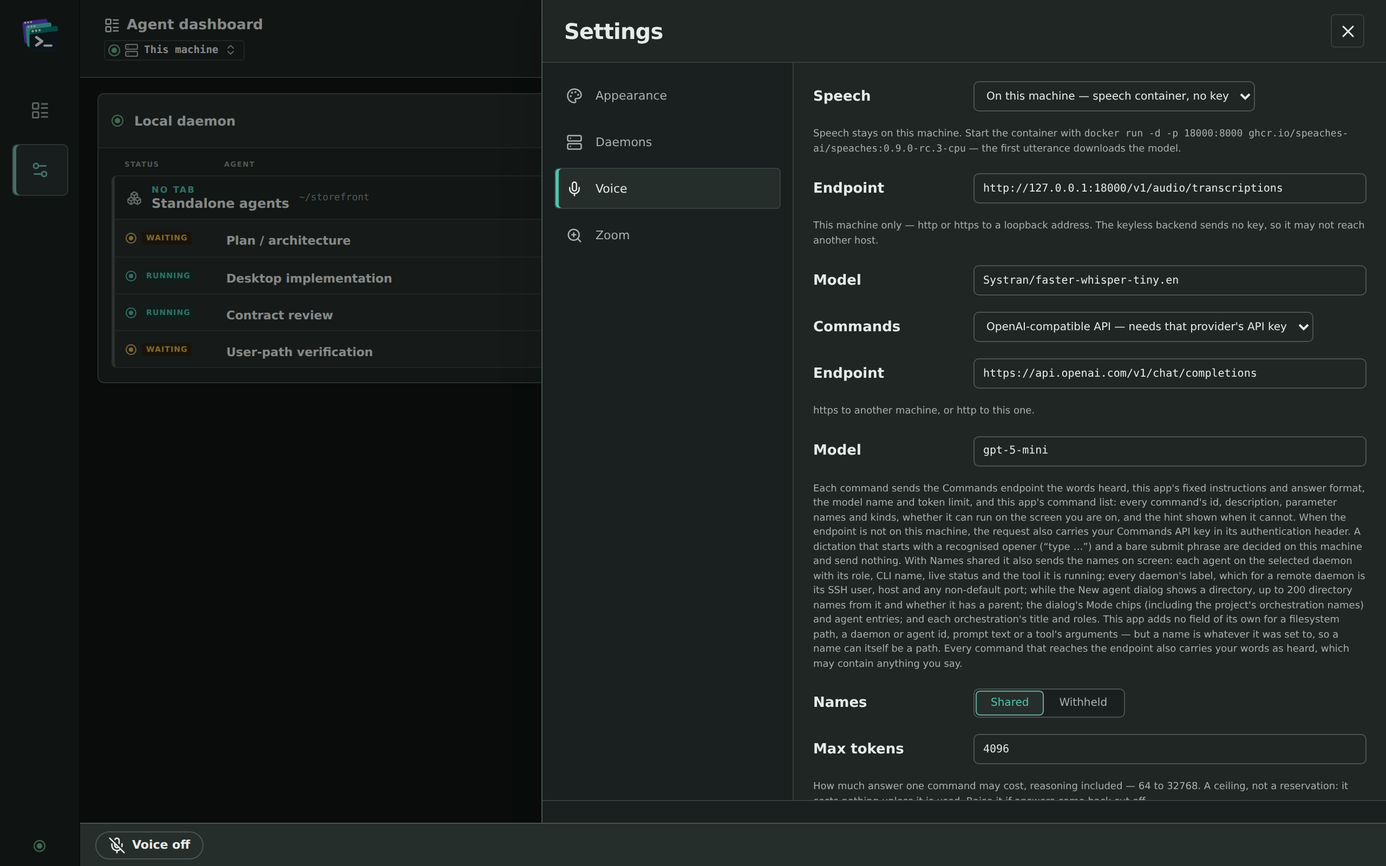
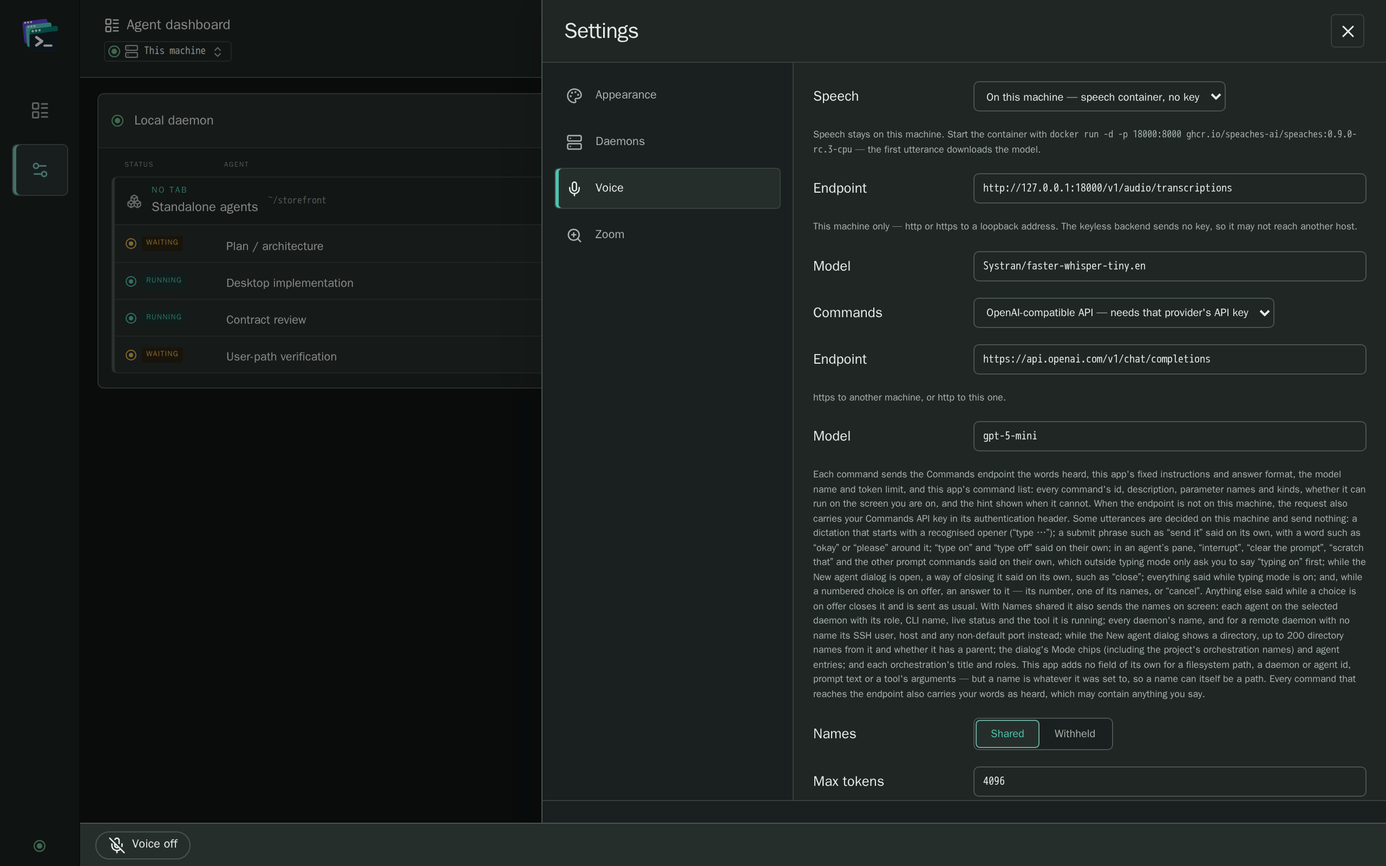
docs(voice): interrupt, clear and scratch that — user docs, key design, release note (#1541)
PRD #1541 M6.

- docs/desktop/voice.md: the agent-screen commands in the command table; a
  typing-mode section for interrupt / clear the prompt / scratch that with
  their phrases, typing-mode-only behaviour, clear's Undo, scratch's limits
  and per-agent coverage (Devin unsupported, rule 20); "What is sent where"
  and the troubleshooting table; the misheard "type off" workaround now uses
  "scratch that"; the typing-mode send and voice-off phrase lists are now
  complete.
- docs/develop/voice-first-design.md: the fourth reserved class, the new
  lists in the reserved-set table and classification order, and a section on
  the deck-served per-agent prompt keys: the verified table, the measured
  hazards and their guards, and how to re-verify after an agent upgrade.
- Live measurement (2026-10-04, attach-stream path): one write of 400 or 800
  DEL is exact in Claude Code 2.1.289, Codex 0.160.0 and OpenCode 1.18.34.
  Paste collapse applies to what the agent READS: an 8-char write followed
  at once by an 800-char write collapsed in Claude and the DELs then
  over-deleted. prompt/voice-keys/003 now also scratches a 500-character
  dictation in one write.
- changelog.d/1541.feature.md; published.toml description.
- settings-voice-desktop.png regenerated (cargo docs-screenshots): the
  disclosure text it showed was stale.

diff --git a/tests/e2e_prompt_keys_live.rs b/tests/e2e_prompt_keys_live.rs
@@ -391,7 +391,8 @@ fn prompt_voice_keys_002_clear_empties_a_live_claude_prompt() {
 /// and a dictated tail into its prompt through an attach stream, then write the
 /// delete key the daemon serves once per tail character in one write. Exactly
 /// the tail must go: a word typed straight after reads contiguously after the
-/// kept word and its space, and the agent is still running.
+/// kept word and its space. Then a 500-character dictation is removed the same
+/// way, in one write of 500 deletes, and the agent is still running.
 #[spec("prompt/voice-keys/003")]
 #[test]
 fn prompt_voice_keys_003_delete_char_removes_exactly_the_last_characters() {
@@ -416,7 +417,42 @@ fn prompt_voice_keys_003_delete_char_removes_exactly_the_last_characters() {
         "exactly the tail removed — no more and no less",
         &format!("{KEPT}{NEXT}"),
     );
+
+    // A long dictation, as long as voice ever scratches without nearing the
+    // 800-character paste collapse, removed by one write of deletes. Written
+    // only once the prompt before it is on screen: two writes read together
+    // are one paste to Claude, and 808 characters would collapse.
+    let long = long_dictation(LONG_SCRATCH_CHARS);
+    writer.write(&long);
+    claude.deck.wait_until_grid_then_hold(
+        "the long dictation settled in Claude's input box",
+        BEFORE_SUBMIT,
+        |grid| grid.contains(LONG_MARKER) && !grid.contains("[Pasted"),
+    );
+    writer.write(&claude.keys.delete_char.bytes.repeat(long.chars().count()));
+    writer.write(FINAL);
+    claude.wait_for_input_text(
+        "exactly the long dictation removed — no more and no less",
+        &format!("{KEPT}{NEXT}{FINAL}"),
+    );
     claude.assert_still_running("the deletes");
+}
+
+/// How long `prompt/voice-keys/003`'s long scratch is, in characters.
+const LONG_SCRATCH_CHARS: usize = 500;
+/// The start of the long dictation, which shows it reached the input box.
+const LONG_MARKER: &str = "voicekeys_longtail_5e2b";
+/// What is written after the long dictation is deleted.
+const FINAL: &str = "voicekeys_final_7c19";
+
+/// A dictated write of exactly `chars` characters, as voice writes one: words
+/// and a trailing space, opening with [`LONG_MARKER`].
+fn long_dictation(chars: usize) -> String {
+    let mut text = format!(" {LONG_MARKER} ");
+    while text.chars().count() < chars {
+        text.push_str("and some more dictated words ");
+    }
+    text.chars().take(chars - 1).chain([' ']).collect()
 }
 
 /// How one non-Claude agent is started in the harness, and how it is driven.

diff --git a/docs/develop/voice-first-design.md b/docs/develop/voice-first-design.md
@@ -174,18 +174,22 @@ The words that stay live in the mode are lists in `voice/dictation.rs`, matched 
 | `VOICE_OFF_PHRASES` | `voice_off` | in the mode only — in `Idle` the model answers `voice_off` from its description |
 | `SUBMIT_PHRASES`, plus `submit_prompt`'s `heard_as_whole` entries | `submit_prompt` | in the mode; `SUBMIT_PHRASES` in `Idle` too |
 | `TRAILING_SEND_PHRASES` (`send`, `send it`, `submit`, `press enter`) | `dictate_to_agent`, then a send | in the mode only, as a separate last sentence of a longer utterance (PR #1451 round 3); a subset of `SUBMIT_PHRASES`, so it is outside rule 14's disjointness set |
+| `INTERRUPT_PHRASES` | `interrupt_agent` | in the mode (PRD #1541); in `Idle` on the agent screen only, where `local_intercept` answers it with `TYPING_MODE_FIRST_HINT` and runs nothing |
+| `TYPING_STOP_PHRASES` (`stop`, `stop it`, `stop that`) | `interrupt_agent` | in the mode only; in `Idle` it is not intercepted at all and the model answers it as before (issue #1402 owns what a bare "stop" in a pane should become), which is why it is a list of its own and is not in `interrupt_agent`'s `heard_as_whole` |
+| `CLEAR_PROMPT_PHRASES` | `clear_prompt` | as `INTERRUPT_PHRASES` |
+| `SCRATCH_PHRASES` | `scratch_that` | as `INTERRUPT_PHRASES` |
 
-The browser preview's fixture (`resolveFixtureVoice` in `desktop/src/data/fixture.ts`) carries copies of these lists on its `voice_off`, `dictation_on`, `dictation_off` and `submit_prompt` rows, matched by the same whole-utterance rule with the same politeness words. `desktop/src/data/fixture.test.ts` reads the Rust lists out of `dictation.rs`, `outcome.rs` and `commands.toml` and fails on a phrase missing from either side, so a list edit in Rust has to be made in the fixture too.
+The browser preview's fixture (`resolveFixtureVoice` in `desktop/src/data/fixture.ts`) carries copies of these lists on its `voice_off`, `dictation_on`, `dictation_off`, `submit_prompt`, `interrupt_agent`, `clear_prompt` and `scratch_that` rows, matched by the same whole-utterance rule with the same politeness words. `desktop/src/data/fixture.test.ts` reads the Rust lists out of `dictation.rs`, `outcome.rs` and `commands.toml` and fails on a phrase missing from either side, so a list edit in Rust has to be made in the fixture too.
 
-**Each phrase in the set is a phrase the user cannot dictate alone**, and that is the cost the whole design is priced in. Said inside a longer utterance it is typed; said on its own it acts. The four `TRAILING_SEND_PHRASES` cost a little more in the mode: they also cannot be dictated as the separate last sentence of an utterance, which sends instead ("Fix the tests. Send it."); said inside that sentence ("Fix the tests and send it.") they are typed. Three classes today — stop typing, stop listening, send — and adding a fourth is a decision recorded in the PRD that adds it, not a list edit. Linkage-check rule 14 holds two properties over the lists: every phrase in each list appears in its row's `description` (so a phrase the fast path answers is one the model was told about, and the phrase fixtures pin the model's `Idle` answer for the voice-off phrases the model owns there), and the lists — the first four above and `DICTATION_OPENERS` — are pairwise disjoint, so the order they are checked in is never load-bearing.
+**Each phrase in the set is a phrase the user cannot dictate alone**, and that is the cost the whole design is priced in. Said inside a longer utterance it is typed; said on its own it acts. The four `TRAILING_SEND_PHRASES` cost a little more in the mode: they also cannot be dictated as the separate last sentence of an utterance, which sends instead ("Fix the tests. Send it."); said inside that sentence ("Fix the tests and send it.") they are typed. Four classes today — stop typing, stop listening, send, and the prompt commands (interrupt, clear the prompt, scratch that) — and adding a fifth is a decision recorded in the PRD that adds it, not a list edit. The fourth was recorded that way: PRD #1541's M1 decisions 2 to 4 (`prds/1541-voice-agent-prompt-control.md`) decide that typing mode decides what a word means, that the three commands live only in the mode, and the phrases; their cost is the usual one, that none of them can be dictated alone, plus a bare "stop" (which interrupts in the mode). Linkage-check rule 14 holds two properties over the lists: every phrase in each list appears in its row's `description` (so a phrase the fast path answers is one the model was told about, and the phrase fixtures pin the model's `Idle` answer for the voice-off phrases the model owns there), and the lists — the eight `dictation.rs` lists named above other than `TRAILING_SEND_PHRASES` (not `submit_prompt`'s `heard_as_whole` entries), and `DICTATION_OPENERS` — are pairwise disjoint, so the order they are checked in is never load-bearing.
 
 ### Classification order
 
 Every step is a whole-utterance equality except the opener, which is whole *words at the front*, and the trailing send, which is a whole *last sentence*:
 
 1. **An empty transcript** is a no-match with no backend call, in every state.
-2. **With the mode declared**, `dictation_intercept` answers in full: `VOICE_OFF_PHRASES`, then `DICTATION_OFF_PHRASES`, then a submit, then a trailing send sentence (`TRAILING_SEND_PHRASES` as the separate last sentence: the rest is typed and then sent, PR #1451 round 3), then typed whole. The order is PRD #802's decided one — the bigger stop first — and with disjoint lists it decides nothing; it exists so that a future overlap cannot leave a live microphone after a user asked for it to stop.
-3. **Without it**, `local_intercept`: the on and off phrases, then — over the New agent dialog only — `close`'s whole-utterance list for it, then `SUBMIT_PHRASES` (less an edge politeness word, as `heard_as_whole` compares), then a `DICTATION_OPENERS` opener; everything else goes to the model.
+2. **With the mode declared**, `dictation_intercept` answers in full: `VOICE_OFF_PHRASES`, then `DICTATION_OFF_PHRASES`, then a submit, then the prompt commands (`typing_mode_row`: interrupt with the bare "stop" forms, clear, scratch — PRD #1541), then a trailing send sentence (`TRAILING_SEND_PHRASES` as the separate last sentence: the rest is typed and then sent, PR #1451 round 3), then typed whole. The order is PRD #802's decided one — the bigger stop first — and with disjoint lists it decides nothing; it exists so that a future overlap cannot leave a live microphone after a user asked for it to stop.
+3. **Without it**, `local_intercept`: the on and off phrases, then — on the agent screen only — the interrupt, clear and scratch lists (never `TYPING_STOP_PHRASES`), answered with `TYPING_MODE_FIRST_HINT` and no dispatch, then — over the New agent dialog only — `close`'s whole-utterance list for it, then `SUBMIT_PHRASES` (less an edge politeness word, as `heard_as_whole` compares), then a `DICTATION_OPENERS` opener; everything else goes to the model.
 
 ### The state model
 
@@ -265,6 +269,37 @@ The third whole-utterance class answered without the model: **a number said agai
 **Voice acts only on the page showing**, at three layers. Rust: `VoiceDirectories.paging` and `VoiceNewAgentForm.mode_paging` (`VoicePaging { page, elsewhere: [{ name, page }] }`, bounded with the listing in `lib.rs`) — `resolve_param` resolves a `dir_ref` / `mode_ref` against every page under `off_page_key`s and `resolve_paged` refuses a match only off the page with `Unmet::OffPage` ("“docs” is on page 3: say “next page”"), so a name on the page showing still wins, and "docs site" is told its page rather than loosely becoming a visible `docs`. Webview dispatch: `DeckShell.dispatchVoice` refuses any resolved param that names an item in the active pager's `elsewhere` (`offPageTarget`) — the case Rust cannot see, an agent on another dashboard page, resolved against the whole deck. Webview fallback: an utterance nothing answered (`no_match` and the other holdable kinds, or `param_unresolved`) whose words cover an off-page item's name gets that page sentence at once instead of being held (`offPageNamed`). The dialog's own moves (`voiceOpenDirectory`, `voiceChooseMode`) refuse an off-page target too.
 
 **Numbers past nine.** A page can show more than nine numbers, so `voice::choice::ordinal` (and its TS twin in `voiceChoice.ts`) reads counts to ninety-nine in words ("twelve", "twenty three" — `whole_utterance` splits "twenty-three"), positions to "ninetieth" ("the twelfth", "the twenty-first one"; a trailing "one" is filler only after a position, so "twenty one" is 21), and digits as before. `said_as_count` and `count_said` carry the count-versus-position distinction the collision rule needs ("twelve" collides with `worker 12`; "the twelfth" does not). A name's number is read off its last two words when they are one number, so "worker twenty three" collides with "twenty three" and not with "three". `MAX_CHOICES` stays 9: a numbered choice still offers at most nine, and "twelve" against it is refused.
+
+### Prompt commands and the per-agent keys (PRD #1541)
+
+Typing mode's fourth class of reserved phrases acts on the open agent's prompt: `interrupt_agent`, `clear_prompt` and `scratch_that`, invoking `interruptAgent`, `clearAgentPrompt` and `scratchLastDictation` in `VoiceControlPanel.tsx`. They are reached only through the local intercept (the reserved set and classification order above). Each row is `heard_as_whole` over exactly the phrases `local_intercept` answers outside the mode, so the model never has words it could ground a pick of one on, and `handle_utterance_with_dictation` refuses a model dispatch of any of them with `TYPING_MODE_FIRST_HINT` as a second wall. The decisions behind them, including why each lives only in the mode, are PRD #1541's M1 decisions (`prds/1541-voice-agent-prompt-control.md`).
+
+**The keys are the deck's, not the app's (rule 18).** Which bytes interrupt, clear or delete depends on the agent version on the deck's host, not on this app's build, so a remote deck of another version has to answer for its own agents. `AgentSpec::prompt_keys` in `src/agent_registry.rs` holds them, and the daemon stamps them onto each `AgentRecord` as the additive optional field `prompt_keys` (`attach_prompt_keys`, run beside `attach_cli_names` at the wire boundary). That is the `cli_name` precedent of #856 and the protocol's own written policy for an additive optional field, so `PROTOCOL_VERSION` did not move; `ClearKey::pause_between_writes_ms` was added later on the same terms. The desktop crate copies them to `DesktopAgent.prompt_keys` through `map_prompt_keys` (`desktop/src-tauri/src/dto.rs`), which drops the whole set rather than pass on half of one when any part breaks this client's own promises: a key that does not start with a control byte, is longer than 16 bytes, or contains `0x03`, CR or LF; no interrupt step or more than it allows; a pause over 2 s; a per-write cap of zero; a clear rule it does not know. The webview carries them to `VoicePane.promptKeys`. Absent keys mean a refusal that names the agent ("Devin has no voice key to interrupt its turn."), which covers Devin, an agent type the deck does not know, and a deck too old to send the field.
+
+**The verified key table.** Measured 2026-10-03 in a private tmux server on cheap models; versions from `--version`.
+
+| | Claude Code 2.1.289 | Codex 0.160.0 | OpenCode 1.18.34 | Pi 0.87.1 | Devin 3000.11.3 |
+| --- | --- | --- | --- | --- | --- |
+| Interrupt | `ESC` once | `ESC` once | `ESC`, 300 ms, `ESC` (the first only arms "esc again") | `ESC` once | none (not measured: logged out on the measuring box) |
+| Clear | `Ctrl+U` (`0x15`) per wrapped screen row; at most 32 per write, writes 1 s apart | `Ctrl+U` per line | `Ctrl+U` per line | `Ctrl+U` per line | none |
+| Delete one character | `DEL` (`0x7f`) | `DEL` | `DEL` | `DEL` | none |
+| Unbracketed write collapsed into a paste placeholder | above 800 characters (`[Pasted text #N]`) | above 1000 (`[Pasted Content …]`) | never (2290 kept as text) | never (2290 kept as text) | unknown |
+
+The panel presses the clear key 64 times for `per_wrapped_row` and 16 for `per_line` (`VOICE_CLEAR_PRESSES`): extra presses on an empty prompt are harmless in all four measured agents, so it over-counts rather than measure the prompt. `prompt_keys_match_the_verified_table` in `src/agent_registry.rs` pins the table, and `desktop/src/data/prompt-keys.json`, the browser preview's copy, is pinned to the registry by a desktop-crate test.
+
+**What was measured to go wrong, and what guards each.**
+
+- **`Ctrl+C`, never.** On an empty prompt it quits Codex and OpenCode outright, and twice quits Claude Code. No served sequence contains `0x03`, which the registry's tests assert; `map_prompt_keys` drops any set that does; and the live tests assert it of the interrupt steps the daemon actually served.
+- **A repeated interrupt.** `ESC` on an agent that has already stopped opens Rewind in Claude Code (and clears its draft), the transcript browser in Codex, and the Session Tree in Pi on an empty prompt. So the panel sends an interrupt only while `turn` is `working` (`agentTurn` in `desktop/src/lib/promptKeys.ts`: the `thinking`, `working` and `compacting` statuses; `running`, which the desktop crate reports for an agent with no hook state, is not evidence of a turn), and refuses a second one to the same pane within `VOICE_INTERRUPT_REPEAT_MS` (3 s) of the last one sent. This guard is part of the key's contract, not an option, which is why the field's doc says so.
+- **Claude Code drops a large `Ctrl+U` read whole.** One read holding 64 or more NAKs is ignored entirely (10 to 63 worked), and separate writes are not separate reads: through the attach stream, two writes of 32 sent back to back were ignored exactly as one of 64, and so were two 250 ms apart on a box at load 174; two 1 s apart cleared the prompt. So the deck serves `max_presses_per_write: 32` and `pause_between_writes_ms: 1000` for Claude Code and the panel honours both, rather than each sender guessing the gap. Codex, OpenCode and Pi took 300 in one write.
+- **Paste collapse.** An unbracketed write longer than the agent's threshold becomes a placeholder that one `DEL` removes whole, so `DEL` × its length would go on to delete text in front of it. `DeleteCharKey::max_literal_write_chars` serves each agent's threshold, and the panel refuses to scratch a write longer than `min(800, that)` (`VOICE_SCRATCH_MAX_CHARS`). 800 is voice's floor for every agent, the lowest measured threshold.
+- **The threshold applies to what the agent reads, not to one write.** Measured 2026-10-04 through the attach stream against Claude Code 2.1.289: an 8-character write followed at once by an 800-character write was read as one 808-character paste and collapsed, and 800 `DEL`s then removed the placeholder and the 8 characters before it. The same two writes in another round, and every case with the long write on its own, were exact. Voice's dictated writes are normally a whole utterance apart, so this needs two writes to reach the agent together; the clear's Undo, which types the whole cleared prompt back as one write, can exceed 800 on its own.
+- **Large `DEL` writes are exact.** Measured 2026-10-04 through the attach stream, one write of 400 and one of 800 `DEL`s each removed exactly that many characters in Claude Code 2.1.289, Codex 0.160.0 and OpenCode 1.18.34 (a box at load 96 on 16 cores); Claude's large-read drop is specific to `Ctrl+U`. `prompt/voice-keys/003` pins a 500-character scratch in Claude Code.
+- **Enter in the same burst as text is a newline.** Claude Code reads an `Enter` that arrives with the text before it as part of a paste and inserts a newline instead of sending. A spoken send therefore waits until `VOICE_SUBMIT_SETTLE_MS` (750 ms) after the last tracked write landed. 750 ms is the settle the live tests use before every `Enter`, so it is known to submit; it is not a measured minimum.
+
+**What the panel keeps per prompt.** A `PromptRecord` per agent and incarnation (`spawnedAtMs`) holds voice's writes since the prompt was last sent, cleared or interrupted, which is what "scratch that" pops, and whether those writes are the whole prompt, which is the only case where a clear offers Undo. Keyboard input reaches the panel through `App.tsx`'s `KeyboardInput` context and empties the record (a plain `Enter` empties it as sent, so the prompt is again known to be whole). Every write to one pane goes through one line (`onPane`), so a dictated write never lands between a clear's writes, and an Undo waits for the clear's last write. Writes after the first in a command (the second interrupt `ESC`, the second clear write, an Undo) re-check the command's context first and stop rather than finish into a pane that has moved.
+
+**Re-verifying the keys after an agent upgrade.** An agent can change what a key does in any release, so the table is only as current as its versions. Run `cargo test-e2e-live prompt_voice_keys` (lane 2, a developer's machine only): `prompt/voice-keys/001`–`003` drive a real interactive Claude Code, `004` Codex and `005` OpenCode, each writing the keys the daemon served through the desktop's attach-stream path. With a ChatGPT-subscription login set `DOT_AGENT_DECK_CODEX_TEST_MODEL=gpt-5.6-luna` and `DOT_AGENT_DECK_OPENCODE_TEST_MODEL=openai/gpt-5.6-luna`, and `DOT_AGENT_DECK_REQUIRE_REAL_E2E=1` so a missing login fails instead of skipping. Pi is not covered by those tests (the catalog's `prompt/voice-keys` section says why), so measure it by hand in a private tmux server as the PRD's table was. When a key changes, update the agent's entry in `src/agent_registry.rs`, `prompt_keys_match_the_verified_table`, `desktop/src/data/prompt-keys.json` and the table above with the new version. Devin gets keys once someone measures it logged in, and `docs/desktop/voice.md` then drops it from the unsupported list (rule 20). The editing-key bytes the desktop sends from the keyboard were measured the same way and are in [`desktop-gui.md`'s "Keys in an agent's terminal"](desktop-gui.md#keys-in-an-agents-terminal).
 
 ## 9. Checklist for a new surface
 

diff --git a/docs/desktop/voice.md b/docs/desktop/voice.md
@@ -1,6 +1,6 @@
 # Voice Control
 
-The desktop app can be driven by voice: open screens and agents, switch daemons, fill in and submit the New agent dialog, stop agents (after you confirm on screen), and type or dictate into an agent. The TUI has no voice control.
+The desktop app can be driven by voice: open screens and agents, switch daemons, fill in and submit the New agent dialog, stop agents (after you confirm on screen), type or dictate into an agent, and interrupt the agent, clear its prompt or take back what you just dictated. The TUI has no voice control.
 
 Voice needs two services, set in **Settings → Voice**: **Speech** turns your audio into text, and **Commands** turns that text into one of the app's commands. Read [What is sent where](#what-is-sent-where) before turning it on. Voice understands English: what you say is always transcribed as English, whatever your accent.
 
@@ -36,7 +36,7 @@ What you can do by voice, by screen:
 | Anywhere, including an agent's pane | Close what is open over the screen (a pane, Settings, a dialog); list the commands; turn voice off |
 | Dashboard | Open Settings; switch which daemon the app shows; open an agent's pane; open New agent; stop an agent or close an orchestration (the app shows the same confirmation as the buttons, and nothing stops until you confirm by hand) |
 | New agent dialog | Choose the daemon; open a directory, go up, use the directory shown; [filter the directories](#filtering-directories) or clear the filter; choose a Mode chip or the agent to run; set the Name; [set the Command](#setting-the-command); start; discard |
-| An agent's pane | Type into the agent's prompt; submit it; turn [typing mode](#typing-mode) on and off |
+| An agent's pane | Type into the agent's prompt; submit it; turn [typing mode](#typing-mode) on and off; in typing mode, [interrupt the agent, clear its prompt, or scratch what you last dictated](#interrupt-clear-and-scratch-that) |
 
 While voice is on, the agents, daemons, directories and modes on screen are numbered, and saying a number chooses one; see [Choosing by number](#choosing-by-number). A list too long for the window is shown a page at a time, so everything you can choose is on screen; see [Long lists are shown in pages](#long-lists-are-shown-in-pages). When what you said matches more than one thing on screen, the app lists the matches for you to choose from; see [When a command matches several things](#when-a-command-matches-several-things).
 
@@ -121,10 +121,10 @@ While typing mode is on:
 ![An agent's pane with typing mode on: "Typing to Desktop implementation" on the pane's top edge, and at the bottom of the window the Voice on button, a Stop typing button and the reminder "Typing to Desktop implementation. Say “type off” to stop, “send it” to send."](/img/voice-typing-mode-desktop.png)
 
 - **Typing to** *agent* is shown at the top of the agent's pane and beside the Voice button, with a reminder of what to say to stop and to send, and a **Stop typing** button.
-- Nothing is sent to the agent until you say "send it" (or "send", "submit", "enter", "press enter", "go ahead", "finished", "end") on its own, or press `Enter` yourself. After a send, typing mode stays on, so you can dictate the next prompt the same way.
-- You can also end what you say with "send it", "send", "submit" or "press enter" as a separate last sentence, for example "What's the weather over there? Send it." Everything before it is typed and then sent; the last sentence itself is not typed. The other send phrases ("enter", "go ahead", "finished", "end") send only when said on their own, so "Fix the tests. Go ahead." is typed in full and not sent.
+- Nothing is sent to the agent until you say "send it" (or "send", "submit", "submit it", "enter", "press enter", "go ahead", "end", "that is the end", "finished", "the prompt is finished") on its own, or press `Enter` yourself. After a send, typing mode stays on, so you can dictate the next prompt the same way.
+- You can also end what you say with "send it", "send", "submit" or "press enter" as a separate last sentence, for example "What's the weather over there? Send it." Everything before it is typed and then sent; the last sentence itself is not typed. The other send phrases ("enter", "go ahead", "finished", "end" and the rest) send only when said on their own, so "Fix the tests. Go ahead." is typed in full and not sent.
 - If you stop talking for four seconds with words typed but not yet sent, “send it” to send is highlighted as a reminder. It never sends anything itself; the highlight goes away when you speak again, send, or stop typing.
-- Only a handful of things you can say still act as commands, and only when you say them on their own (or, for the four send phrases above, as a separate last sentence): "type off" (or "typing off", "stop typing", "dictation off", "stop dictation", "done typing"), the send phrases above, and "voice off" (or "mute", "mic off", "stop listening", "stop voice"). Said inside a longer sentence, such as "tell the reviewer to send it when the tests pass", they are typed like anything else. Other commands, such as opening a screen, do not work until you stop typing.
+- Only a handful of things you can say still act as commands, and only when you say them on their own (or, for the four send phrases above, as a separate last sentence): "type off" (or "typing off", "stop typing", "dictation off", "stop dictation", "done typing"), the send phrases above, "voice off" (or "turn off the voice", "turn voice off", "stop listening", "stop voice control", "stop voice", "mute", "mic off"), and the [interrupt, clear and scratch](#interrupt-clear-and-scratch-that) phrases below. Said inside a longer sentence, such as "tell the reviewer to send it when the tests pass" or "stop the build when the tests fail", they are typed like anything else. Other commands, such as opening a screen, do not work until you stop typing.
 - If you speak for 30 seconds without a pause, what you said is still typed, and the app tells you it reached the limit.
 
 Typing mode ends, and **nothing is sent** when it does, if you:
@@ -136,9 +136,33 @@ Typing mode ends, and **nothing is sent** when it does, if you:
 
 It also ends if the agent stops accepting input, for example because it exited, or if it is replaced by a new agent in the same pane (which the app can tell only when the daemon reports when each agent started). Something you said just before typing mode ended that the app was still working out is not typed or sent, but words it had already handed to the agent can still appear in the prompt after typing mode ends; they are not sent. If the agent you were typing to is still there, whatever you dictated stays in its prompt, where you can edit it or send it yourself; a replacement agent starts with an empty prompt. The app says why typing mode ended. Typing mode never moves to another agent on its own: to dictate to a different agent, open its pane and say "type on" again. If the agent on screen cannot take input, "type on" is refused with the reason.
 
-If the app mishears "type off", the words are typed into the prompt instead of stopping typing mode. They are not sent: press **Stop typing** and delete them.
+If the app mishears "type off", the words are typed into the prompt instead of stopping typing mode. They are not sent: say "scratch that" to remove them, then say "type off" again or press **Stop typing**.
 
 A bare "type on" or "type off" always switches typing mode, so it cannot be used to type the single word "on" or "off". Say "type the word on" instead.
+
+### Interrupt, clear and scratch that
+
+In typing mode you can also act on the agent's prompt, by saying one of these on its own:
+
+| Say | What happens |
+| --- | --- |
+| "interrupt" (or "interrupt it", "interrupt that", "stop", "stop it", "stop that") | The agent stops what it is working on. It keeps running, with its session, and takes your next prompt as usual. |
+| "clear the prompt" (or "clear prompt", "clear it", "clear all", "clear everything", "delete everything") | Everything in the agent's unsent prompt is deleted. Nothing is sent. |
+| "scratch that" (or "scratch it", "scratch the last part", "scratch the last sentence", "scratch the last prompt", "delete that", "undo that") | The words typed for the last thing you said are deleted, and the rest of the prompt stays. Say it again to remove what you said before that. |
+
+The row beside the Voice button says what happened, for example *Interrupted Desktop implementation.* or *Removed “run the tests” from Desktop implementation's prompt.* Said inside a longer sentence, such as "we should work on the scratch feature", these phrases are typed like anything else.
+
+**They work only in typing mode**, so a word you say to the app itself is never taken as one of them. With typing mode off, "interrupt", "clear the prompt", "scratch that" and the other phrases above run nothing, and the app tells you to say "typing on" first. A bare "stop" with typing mode off never interrupts the agent.
+
+**Interrupt** is sent only while the agent is shown as **running**, meaning it reports that it is thinking, working or compacting; otherwise nothing is sent and the app says the agent is not working on anything. A second "interrupt" within three seconds of the first is refused rather than sent, because on an agent that has already stopped the same key opens one of its menus instead. Interrupt asks for no confirmation, since the agent and its session are kept. An agent interrupted before it has written anything may put the prompt back in its input box, where you can edit it or send it again.
+
+**Clear the prompt** offers **Undo** for ten seconds when everything in the prompt was dictated by voice since it was last sent or cleared. Undo types those words back without sending them; anything else that was in the prompt is not restored. If you typed into the prompt yourself, or interrupted the agent, the app does not know what the prompt held, so no Undo is offered and the row says the clear cannot be undone.
+
+**Scratch that** removes only words the app typed into this prompt, most recent first, and only while it can be sure they are still at the end of it. It removes nothing, and says why, once you have typed into the prompt on the keyboard, or the prompt was sent or cleared, or the agent was interrupted or replaced. It also refuses a dictation longer than 800 characters, and one with characters a single delete might not remove whole, such as emoji. Edit the prompt yourself in those cases, or say "clear the prompt".
+
+As with every command in a pane, nothing is pressed, and the app says why, if a confirmation is open, the pane on screen changed, or the agent in it was replaced while the app was working out what you said.
+
+**Which agents support them.** Claude Code, Codex, OpenCode and Pi support all three. **Devin does not support any of them:** the app has no checked keys for interrupting Devin or for deleting text in its prompt, so each is refused with, for example, *Devin has no voice key to interrupt its turn.* The same refusal names an agent the app does not recognise, such as one started with a custom command, and any agent running under a daemon older than these commands; update that daemon to use them there.
 
 ## Settings → Voice
 
@@ -170,7 +194,7 @@ Keys are stored in your operating system's credential store (the macOS Keychain,
 
 - **To the Speech service:** your audio, the model name and the language (English). With the default local container, it stays on this machine. The OpenAI speech option also sends your Speech key.
 - **To the Commands service, for each utterance it decides:** the words it heard, the app's fixed instructions and answer format, the model name and token limit, and the app's list of commands (each command's id, description, parameter names and kinds, whether it can run on the current screen, and the hint shown when it cannot). When the endpoint is not on this machine, the request also carries your Commands API key.
-- **Decided on this machine, sending nothing:** an utterance that starts with the word "type", "write", "say" or "dictate" followed by words to type; one that is, in its entirety, "end", "send", "send it", "submit", "enter" or "press enter" (case, punctuation and a word such as "okay" or "please" before or after it ignored); while the New agent dialog is open, one that is in its entirety a way of closing it, such as "close", "cancel" or "close new agent"; while a [numbered list](#when-a-command-matches-several-things) is open, a number, a listed name or a way of cancelling it; while the lists on screen show [numbers](#choosing-by-number), a number on its own or after the list's name, such as "three" or "select directory 13"; and "type on" and "type off" themselves. While [typing mode](#typing-mode) is on, nothing you say is sent to the Commands service at all: it is typed into the agent or, for the few phrases that still work, handled on this machine. Everything else goes to the Commands service, including other ways of saying submit such as "go ahead". Silence sends nothing.
+- **Decided on this machine, sending nothing:** an utterance that starts with the word "type", "write", "say" or "dictate" followed by words to type; one that is, in its entirety, "end", "send", "send it", "submit", "enter" or "press enter" (case, punctuation and a word such as "okay" or "please" before or after it ignored); while the New agent dialog is open, one that is in its entirety a way of closing it, such as "close", "cancel" or "close new agent"; in an agent's pane with typing mode off, one that is in its entirety an [interrupt, clear or scratch phrase](#interrupt-clear-and-scratch-that) other than a bare "stop", which is answered by asking you to say "typing on" first; while a [numbered list](#when-a-command-matches-several-things) is open, a number, a listed name or a way of cancelling it; while the lists on screen show [numbers](#choosing-by-number), a number on its own or after the list's name, such as "three" or "select directory 13"; and "type on" and "type off" themselves. While [typing mode](#typing-mode) is on, nothing you say is sent to the Commands service at all: it is typed into the agent or, for the few phrases that still work (interrupt, clear the prompt and scratch that among them), handled on this machine. Everything else goes to the Commands service, including other ways of saying submit such as "go ahead". Silence sends nothing.
 - **With Names shared**, each request also sends the names on screen: each agent on the selected daemon with its name, role, CLI name, status and running tool; each daemon's name, and for a remote daemon with no name its ssh user, host and any non-default port instead; while the New agent dialog shows a directory, up to 200 directory names from it and whether it has a parent; the dialog's Mode chips (including the project's orchestration names) and agent entries; and each orchestration's title and roles. The app adds no filesystem path, id, prompt text or tool argument of its own, but a name is whatever it was set to, and can itself be a path.
 - **With Names withheld**, none of those names is sent, so the commands that name an agent, daemon, directory, mode, agent type or orchestration are unavailable. Your words are still sent as heard.
 
@@ -191,7 +215,12 @@ What went wrong is shown beside the Voice button.
 | A spoken number chooses nothing and says the numbers on screen changed | The list changed while you were saying it. | Look at the new numbers and say it again. |
 | "Select daemon 13" chooses nothing and says no daemon shows 13 | The number belongs to another list, such as the directories. | Say that list's name with the number, for example "directory 13". |
 | A name is refused with "is on page 2: say “next page”" | The item is on another page of a list shown in pages. | Turn to that page and say it again, or narrow a directory list with "filter …". |
-| "type off" was typed into the prompt instead of stopping typing mode | The app misheard it. | Nothing was sent: press **Stop typing** and delete the words. |
+| "type off" was typed into the prompt instead of stopping typing mode | The app misheard it. | Nothing was sent: say "scratch that" to remove the words, then "type off" again. |
+| "Interrupt", "clear the prompt" or "scratch that" runs nothing and says to say “typing on” first | Typing mode is off, and these work only in typing mode. | Say "typing on", then the command again. |
+| "*Agent* is not working on anything" after "interrupt" | The agent is not shown as **running**, so there is nothing to interrupt. | If the agent is in fact busy, interrupt it from the keyboard in its pane. |
+| "*Agent* was just interrupted — wait a moment before interrupting it again" | You said "interrupt" twice within three seconds. | Wait for the agent to stop, then say it again if it is still working. |
+| "*Agent* has no voice key to …" | The agent is Devin, an agent the app does not recognise, or one under a daemon older than these commands. | Use the keyboard in the pane, or update the daemon. |
+| "Nothing to scratch — …" or "Cannot scratch that — …" | The prompt changed since the last dictation (the reason is given), or the dictation is too long or has characters that cannot be removed safely. | Edit the prompt by hand, or say "clear the prompt". |
 | A command you paused in the middle of was answered in two halves | You paused for longer than the app waits for the rest, which is a few seconds. | Say the whole command again, with a shorter pause. |
 | You said something and nothing happened, with nothing shown | The app took it for noise rather than speech, usually because it was very short or quiet. | Say it again a little louder or closer to the microphone. |
 | Answers are cut off or not understood with a reasoning model | **Max tokens** is too low for its reasoning. | Raise **Max tokens**. |

diff --git a/tests/CATALOG.md b/tests/CATALOG.md
@@ -1623,7 +1623,7 @@ The per-agent prompt keys the deck serves for voice control of the open agent's 
 
 Agent coverage (rule 20): Claude Code (001–003), Codex (004) and OpenCode (005). **Pi is not covered**: the harness's Pi path authenticates only through `ANTHROPIC_API_KEY` (there is no importer for Pi's own login into the per-test HOME), and that key was not set on the box that wrote these. **Devin carries no prompt keys** (PRD #1541 M1 decision 9), so there is nothing to exercise. Codex and OpenCode run on `common::codex_test_model()` / `common::opencode_test_model()`; with a ChatGPT-subscription login set `DOT_AGENT_DECK_CODEX_TEST_MODEL=gpt-5.6-luna` and `DOT_AGENT_DECK_OPENCODE_TEST_MODEL=openai/gpt-5.6-luna` (the defaults are refused by that login, and the preflights say so).
 
-Measured while writing these, against Claude Code 2.1.289 through this path, and worth knowing for whoever sends the clear key: **separate writes are not separate reads.** Two writes of 32 `Ctrl+U` sent back to back left Claude's prompt untouched, exactly as one write of 64 does (Claude ignores a read holding 64 or more); two 250 ms apart did too on a box at load 174; two 1 s apart cleared it; a single write of 32 always did. `DEL` × 100 in one write was exact. An `Enter` written in the same burst as the text before it is taken as part of a paste and inserts a newline, so the tests let typed text settle before `Enter`.
+Measured while writing these, against Claude Code 2.1.289 through this path, and worth knowing for whoever sends the clear key: **separate writes are not separate reads.** Two writes of 32 `Ctrl+U` sent back to back left Claude's prompt untouched, exactly as one write of 64 does (Claude ignores a read holding 64 or more); two 250 ms apart did too on a box at load 174; two 1 s apart cleared it; a single write of 32 always did. `DEL` × 100 in one write was exact, and on 2026-10-04 so were single writes of 400 and 800 `DEL`s against Claude Code 2.1.289, Codex 0.160.0 and OpenCode 1.18.34. The paste-collapse threshold applies to what the agent reads, not to one write: an 8-character write followed at once by an 800-character one was read by Claude as one 808-character paste and collapsed, so 003 writes its long dictation only once the prompt before it is on screen. An `Enter` written in the same burst as the text before it is taken as part of a paste and inserts a newline, so the tests let typed text settle before `Enter`.
 
 ##### prompt/voice-keys/001 — The served interrupt key ends a REAL interactive Claude turn mid-task, keeps the agent running, and the agent answers the next prompt. [reel]
 - **Layer:** L2 PTY-attached (the real binary in the vt100 `TuiDeck` harness; records a cast), lane 2.
@@ -1639,10 +1639,10 @@ Measured while writing these, against Claude Code 2.1.289 through this path, and
 - **Does not assert:** Undo of a clear (panel unit tests); a multi-line draft typed with Shift+Enter.
 - **Platform coverage:** mac+linux.
 
-##### prompt/voice-keys/003 — The served delete key, once per character, removes exactly the last characters of a REAL interactive Claude prompt.
+##### prompt/voice-keys/003 — The served delete key, once per character, removes exactly the last characters of a REAL interactive Claude prompt, a 500-character dictation included.
 - **Layer:** L2 PTY-attached, lane 2.
 - **Agent:** REAL interactive Claude Code on Haiku, set up as in `prompt/voice-keys/001`. Nothing is submitted.
-- **Asserts:** a kept word and a dictated tail (trailing space included, as voice writes it) appear in Claude's input row; one write of the served delete key repeated once per tail character, followed by a next word, leaves the input row reading the kept word, its space and the next word contiguously — so exactly the tail went, no more and no less; the agent is still registered and not `crashed`.
+- **Asserts:** a kept word and a dictated tail (trailing space included, as voice writes it) appear in Claude's input row; one write of the served delete key repeated once per tail character, followed by a next word, leaves the input row reading the kept word, its space and the next word contiguously — so exactly the tail went, no more and no less; a 500-character dictation written after that settles without collapsing into a `[Pasted text]` placeholder, and one write of 500 deletes followed by a final word leaves the input row reading the earlier text and the final word contiguously; the agent is still registered and not `crashed`.
 - **Does not assert:** the scratch-that stack or its refusals (panel unit tests); paste collapse above 800 characters.
 - **Platform coverage:** mac+linux.
 

diff --git a/changelog.d/1541.feature.md b/changelog.d/1541.feature.md
@@ -1,0 +1,3 @@
+## Interrupt, clear and scratch an agent's prompt by voice
+
+In the desktop app's typing mode you can now say "interrupt" (or "stop") to stop what the agent in the open pane is working on while keeping it and its session running, "clear the prompt" to empty its unsent prompt, and "scratch that" to delete only the words typed for the last thing you said. A clear can be undone when everything in the prompt was dictated. The three commands work with Claude Code, Codex, OpenCode and Pi; Devin is not supported. They work only in typing mode: said with typing mode off, they run nothing and the app asks you to say "typing on" first. See [Voice Control](https://agent-deck.devopstoolkit.ai/docs/desktop/voice.md#interrupt-clear-and-scratch-that).
